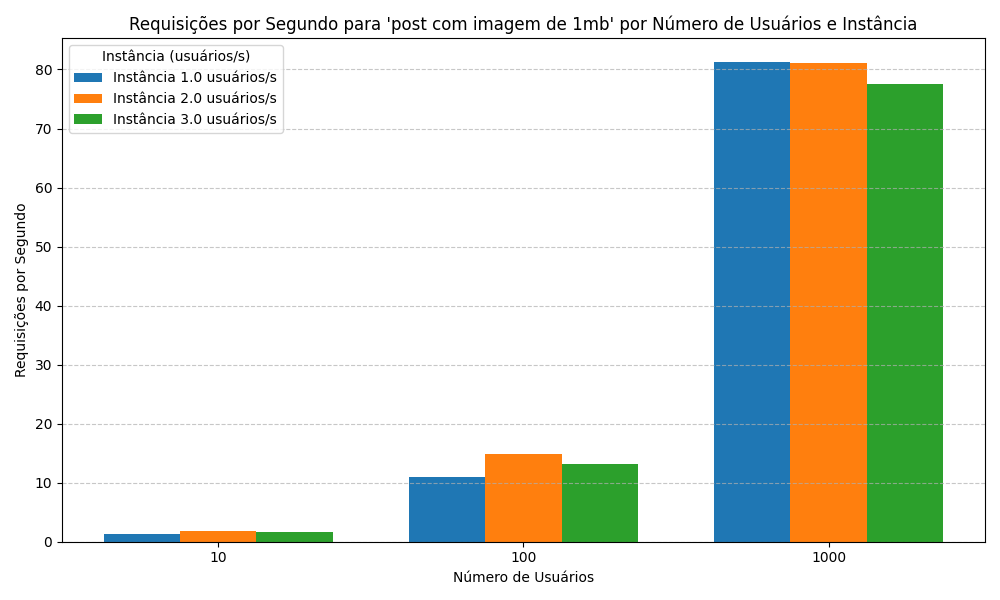
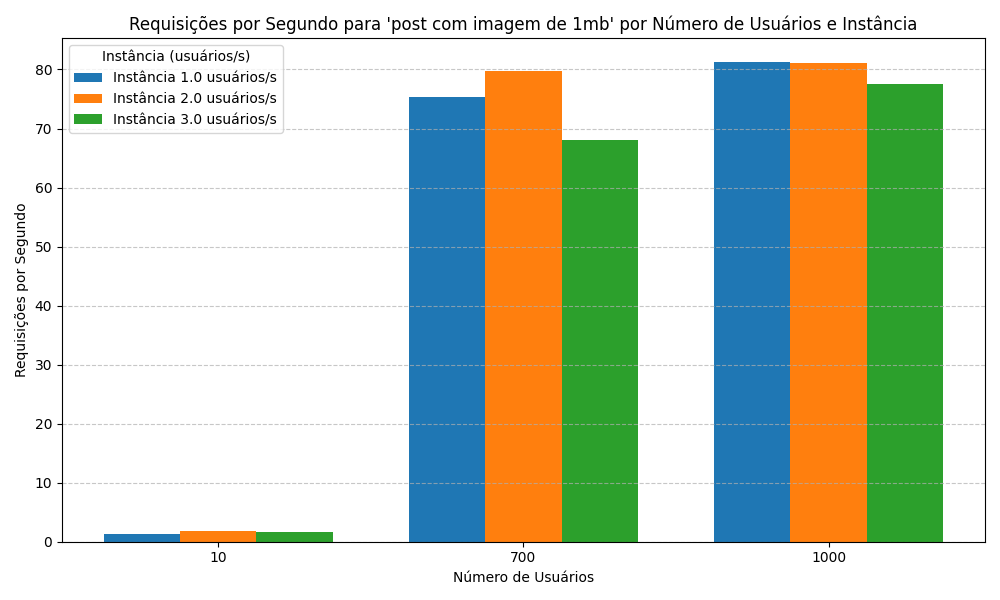
update locus graph

Changed region(s): [[0.403, 0.12, 0.651, 0.81], [0.496, 0.9, 0.527, 0.93]]

diff --git a/grafico2.py b/grafico2.py
@@ -5,7 +5,7 @@ import os
 
 data_path = './csvs'
 
-num_usuarios = [10, 100, 1000]
+num_usuarios = [10, 700, 1000]
 spawn_rates = [1.0, 2.0, 3.0]
 
 tipos_requisicao = {

diff --git a/graficos.py b/graficos.py
@@ -5,7 +5,7 @@ import os
 
 data_path = './csvs'
 
-num_usuarios = [10, 100, 1000]
+num_usuarios = [10, 700, 1000]
 spawn_rates = [1.0, 2.0, 3.0]
 
 tipos_requisicao = {
